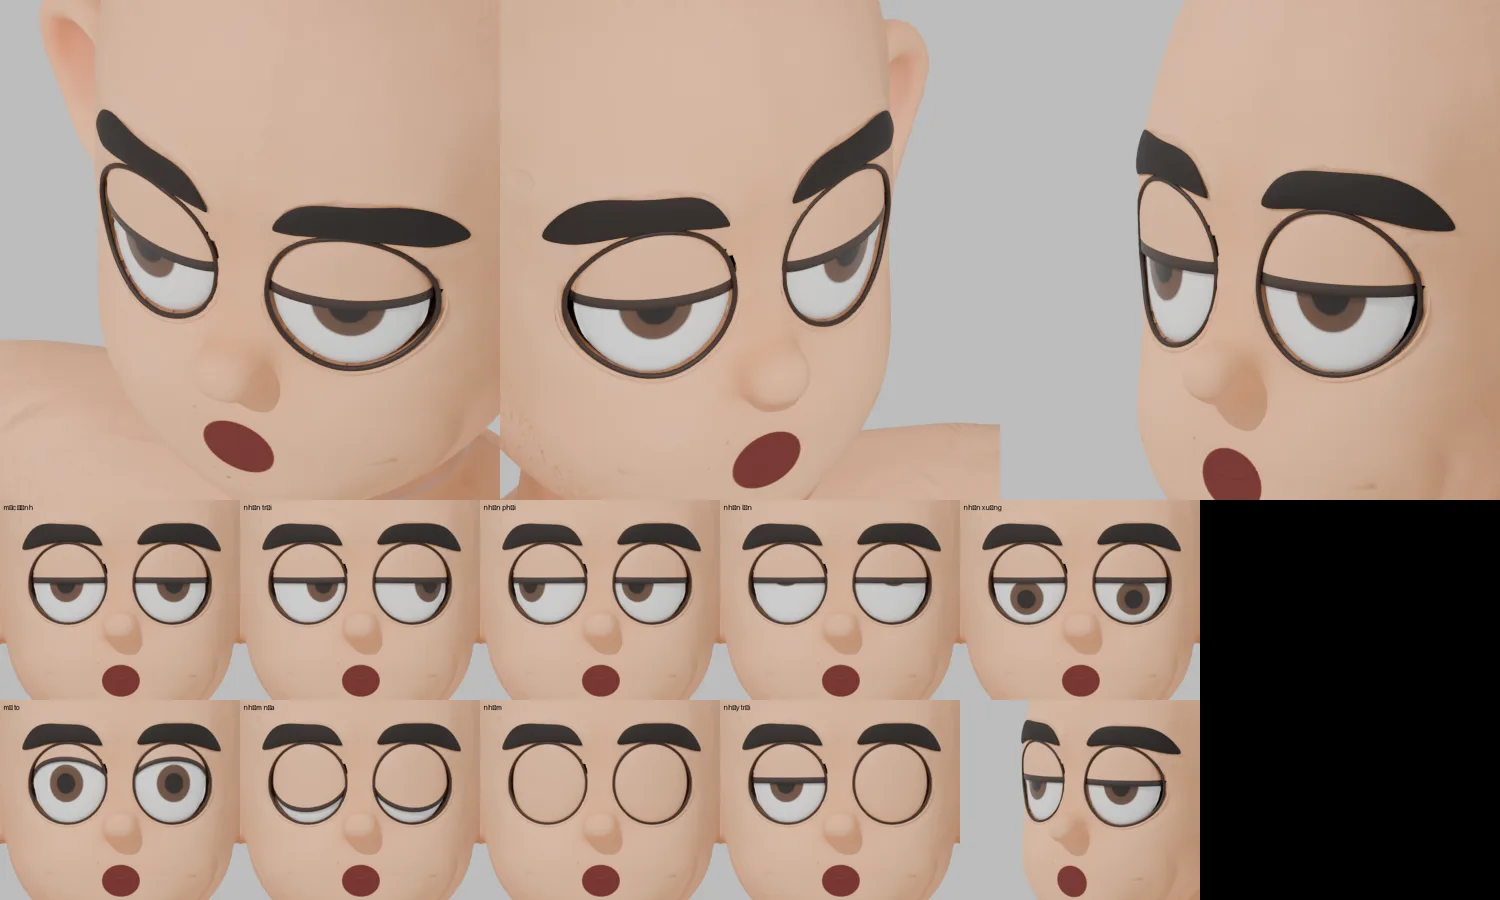
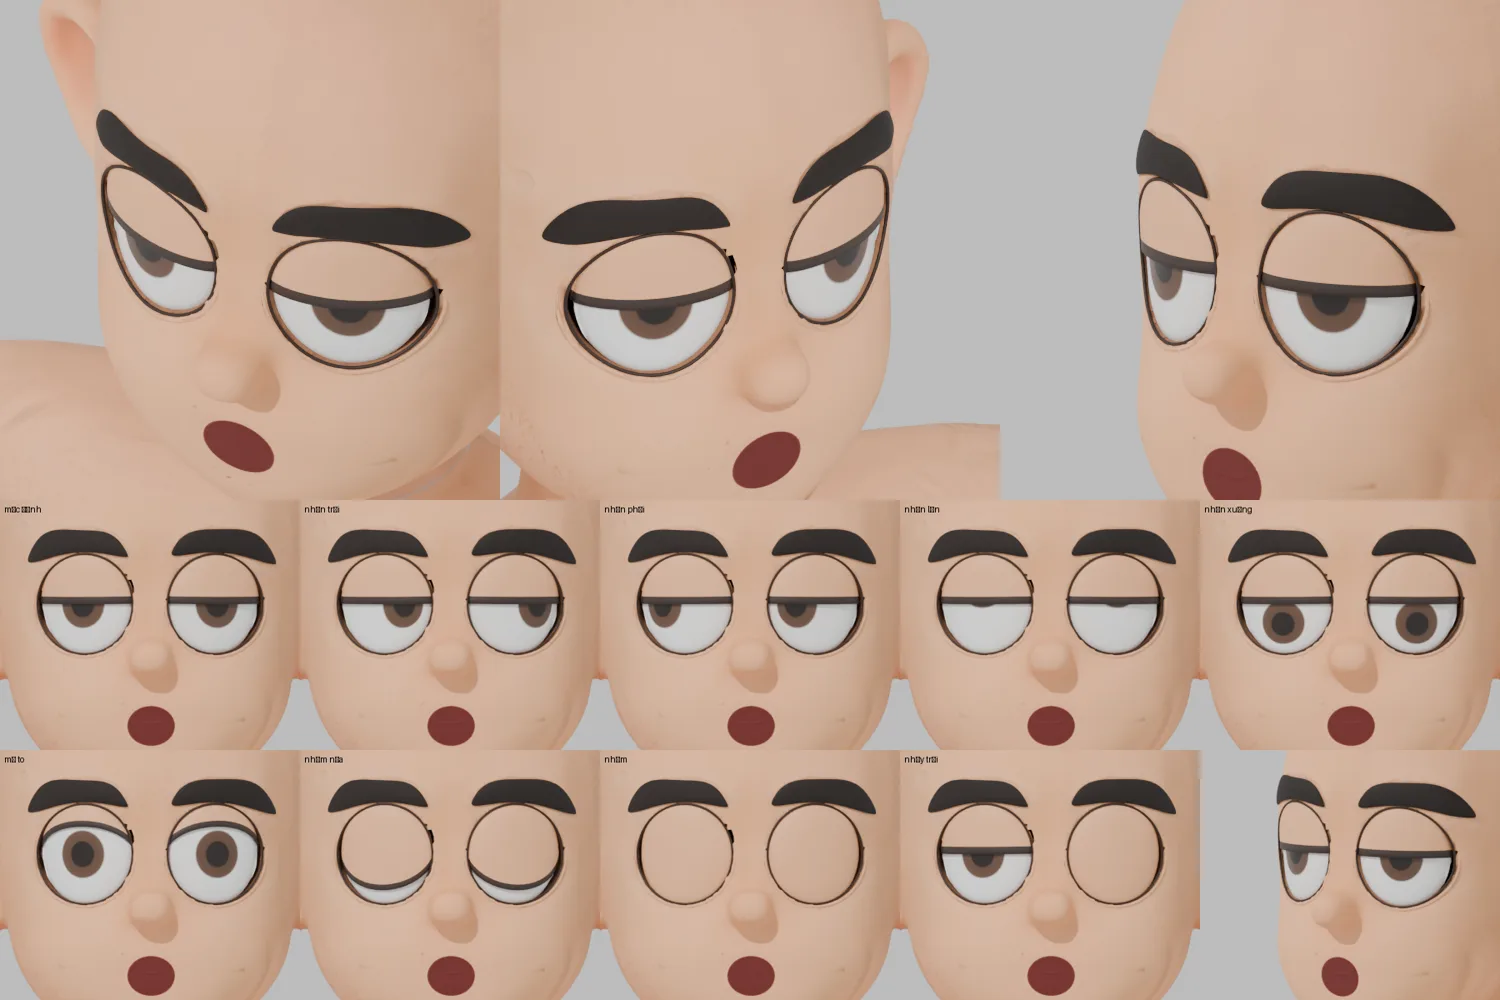
fix(nam-002): viền mắt mảnh hơn, lọc mượt độ sâu theo vòng
Claude-Session: https://claude.ai/code/session_015xtvRfLqUD2K9LfPtx8x7k

diff --git a/assets/nhan-vat-3d/nam-002/mat_nam002.py b/assets/nhan-vat-3d/nam-002/mat_nam002.py
@@ -186,20 +186,24 @@ def _uon(co, ax_, az_):
 
 _VANH = {}
 _ONG = {}
-VIEN_R = 0.0014   # bán kính ống viền 3D (nét ≈ 2,6 mm)
+VIEN_R = 0.0009   # bán kính ống viền 3D (nét ≈ 1,8 mm)
 
 
 def _vien_3d(sc, body, cx, k):
     """Đường viền 3D trơn ôm mép hốc: NURBS khép kín qua 64 điểm trên da ngay ngoài mép lỗ, tiết diện tròn."""
-    a_, b_ = RX - VIEN + 0.0010, RZ - VIEN + 0.0010     # lệch ra ngoài 1 mm ⇒ ống viền phủ lên gờ mép cắt
+    a_, b_ = RX - VIEN + 0.0006, RZ - VIEN + 0.0006     # lệch ra ngoài 1 mm ⇒ ống viền phủ lên gờ mép cắt
     pts = []
     for th in np.linspace(0, 2 * np.pi, 64, endpoint=False):
         x = cx + a_ * math.cos(th); z = EYE_Z + b_ * math.sin(th); pts.append((x, _surface_y(body, x, z) - 0.0002, z))
-    cu = bpy.data.curves.new(f'Vien.{k}', 'CURVE'); cu.dimensions = '3D'; cu.bevel_depth = VIEN_R; cu.bevel_resolution = 4; cu.resolution_u = 6
+    cu = bpy.data.curves.new(f'Vien.{k}', 'CURVE'); cu.dimensions = '3D'; cu.bevel_depth = VIEN_R; cu.bevel_resolution = 6; cu.resolution_u = 12
     sp = cu.splines.new('NURBS'); sp.points.add(len(pts) - 1)
     for p_, q in zip(sp.points, pts): p_.co = (*q, 1)
     sp.use_cyclic_u = True; sp.order_u = 4
     ob = bpy.data.objects.new(f'Vien.{k}', cu); sc.collection.objects.link(ob)
+    # lọc mượt độ sâu y theo vòng (bỏ gợn của da) rồi cập nhật điểm NURBS
+    Y = np.array([p_.co[1] for p_ in sp.points]); F = np.fft.rfft(Y); F[6:] = 0; Ys = np.fft.irfft(F, len(Y))
+    for p_, yv in zip(sp.points, Ys): p_.co = (p_.co[0], float(min(yv, p_.co[1])), p_.co[2], 1)   # không lún xuống dưới da
+    pts = [tuple(p_.co[:3]) for p_ in sp.points]
     # ống lót hốc: nối kín mép hốc với vòng nhỏ phía sau nhãn cầu (che khe tường hốc)
     P0 = np.array(pts); c0 = P0.mean(0); bm_ = bmesh.new(); rings = []
     for f, dy in ((1.0, 0.0), (0.97, 0.004), (0.88, 0.014), (0.70, 0.030)):

diff --git a/assets/nhan-vat-3d/nam-002/README.md b/assets/nhan-vat-3d/nam-002/README.md
@@ -117,3 +117,5 @@ Còn lại: mép lông mày còn viền nhạt, lởm chởm. Quanh hốc còn m
 - Viền 3D lệch ra ngoài mép lỗ 1 mm, dày 2,8 mm, phủ lên gờ mép cắt. Hai đầu vành da thon dần về 0, nên hết chấm cụt.
 - Thêm ống lót kín `OngHoc.L/R` (màu da tối) từ mép hốc vào sâu 30 mm sau nhãn cầu, nên nhìn từ trên hay dưới không còn khe đen. Tường hốc sâu 30 mm.
 - Còn lại: ở khóe ngoài mắt phải còn một vạch tối rất nhỏ khi nhìn gần.
+
+**Viền mảnh (15/11/2026):** nét viền mắt giảm còn khoảng 1,8 mm (bán kính 0,9 mm), lệch ra ngoài mép lỗ 0,6 mm. Độ sâu của viền theo da được lọc mượt quanh vòng (giữ 6 hài bậc thấp, không lún dưới da), và tăng độ phân giải đường cong, nên nét đều, hết gợn lem. Còn lại: ở hai khóe mắt, mép mí đôi khi lộ một vạch nhỏ ngoài viền.
